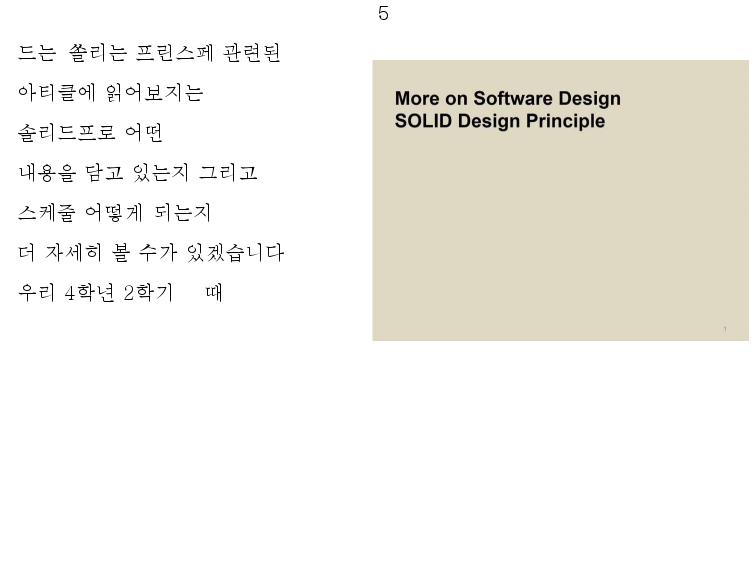
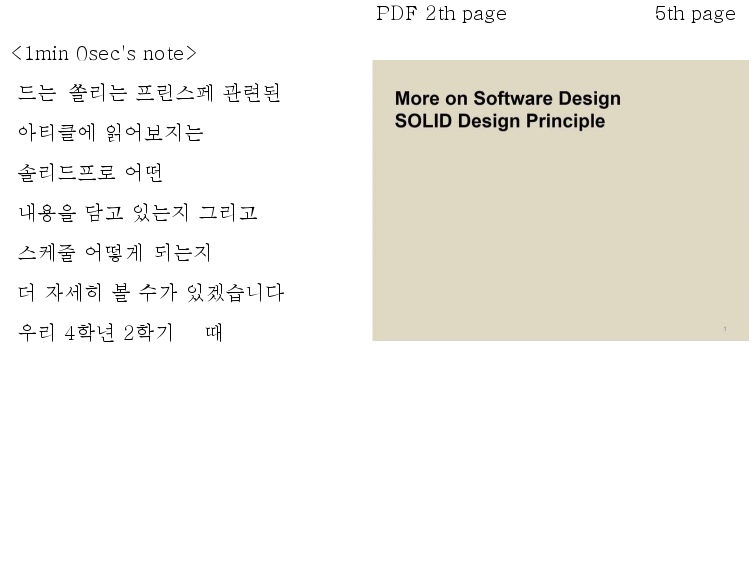
TTI
note별로 문단 시작에 표시

diff --git a/TextToImage/src/test/TextToImg.java b/TextToImage/src/test/TextToImg.java
@@ -21,7 +21,7 @@ public class TextToImg {
 	private ArrayList<Integer> changedP;
 	private int width;
 	private int height;
-	
+	private int pdfPages = 1;
 	private int outputCount = 1;
 	private int fontSize = 20;
 	private Font font;
@@ -31,6 +31,7 @@ public class TextToImg {
 	private Graphics2D graphics;
 	private BufferedImage bImg;
 
+	private String headLine = "";
 	
 	public TextToImg(ArrayList<String> sttString, ArrayList<Note> notes, ArrayList<Integer> changedPosition, int width, int height) throws Exception {
 		this.string = sttString;
@@ -53,7 +54,7 @@ public class TextToImg {
 		int cPosIndex = 0;
 		int widthMargin = width;
 		int heightMargin = 0;
-		
+
 		boolean notePrinted = false;
 		
 		Note note = notes.get(noteIndex++);
@@ -65,22 +66,36 @@ public class TextToImg {
 			
 			if (changedP.get(cPosIndex) == i) {
 				if (cPosIndex < changedP.size() - 1 ) cPosIndex += 1;
+				pdfPages += 1;
 				imageWrite();
 				initGraphic();
 				lineStart = fontSize * 3;
 				wordStart = 10;
 				widthMargin = width;
 				heightMargin = 0;
+				
+				
 				//System.out.println("페이지 넘김");
 			}
 			
 			// ---------------------- 노트 출력 --------------------------------
 			// note의 startIndex과 string의 index가 같다면 같은 초이므로 노트의 이미지를 그릴 준비.
 			if (note.startIndex == i ) {
+				wordStart = 10;
+				if (lineStart + fontSize * 6 > height ) {	// 하단 여백이 모자랄 경우 다음 장으로 넘기기
+					imageWrite();
+					initGraphic();
+					lineStart = fontSize * 3;
+				}
+				else lineStart += fontSize * 2;
 				notePrinted = true;
 				noteImg = note.note;
-				//System.out.println(noteIndex + "번째 그림과 " + i + "초의 텍스트 그리기");
+				headLine = "<"+secondToMinute(i)+"'s note>";
+				graphics.drawString(headLine, wordStart, lineStart);
+				wordStart += headLine.length() * (fontSize - 3);
 			}
+				
+				//System.out.println(noteIndex + "번째 그림과 " + i + "초의 텍스트 그리기");
 			
 			if (noteImg != null) {
 				//System.out.println("그림");
@@ -94,6 +109,7 @@ public class TextToImg {
 					wordStart = 10;
 					lineStart = fontSize * 3;
 				}
+				
 				graphics.drawImage(noteImg, width - noteImg.getWidth() - 5, lineStart, null);
 				widthMargin = width - noteImg.getWidth() - 5;
 				heightMargin = lineStart + noteImg.getHeight();
@@ -103,6 +119,7 @@ public class TextToImg {
 			
 			if (notePrinted) {
 				if (note.endIndex == i) {
+					
 					notePrinted = false;
 					lineStart = heightMargin + fontSize * 3;
 					wordStart = 10;
@@ -118,7 +135,7 @@ public class TextToImg {
 			// i초의 word이다. 
 			if (wordStart + word.length() * (fontSize - 4) + fontSize> widthMargin) {	// 가로의 남은 공간이 불충분하여 줄 띄움
 				wordStart = 10;
-				if (lineStart > height - fontSize * 3){	// 줄 띄울만한 여백이 존재하지 않아 다음 장으로 넘어감
+				if (lineStart > height - fontSize * 2){	// 줄 띄울만한 여백이 존재하지 않아 다음 장으로 넘어감
 					imageWrite();
 					initGraphic();
 					lineStart = fontSize;
@@ -128,7 +145,7 @@ public class TextToImg {
 			word = " " + spaceRemover(word);
 			//System.out.println("wordStart = " + wordStart + " | lineStart = " + lineStart);
 			//System.out.println(word);
-			graphics.drawString(word, wordStart, lineStart);
+			graphics.drawString(word,wordStart, lineStart);
 			wordStart += word.length() * (fontSize - 3);
 			
 		}
@@ -152,7 +169,9 @@ public class TextToImg {
 		graphics.setColor(Color.BLACK);
 		
 		// 위쪽 여백 PDf 인덱스
-		graphics.drawString(Integer.toString(outputCount),width/2, 20);
+		graphics.drawString(Integer.toString(outputCount)+"th page",width-100, 20);
+		graphics.drawString("PDF "+Integer.toString(pdfPages)+"th page",width/2, 20);
+
 	}
 	
 	private void imageWrite() throws IOException {
@@ -160,12 +179,16 @@ public class TextToImg {
 		System.out.println(outputCount++ + "th note converted");
 		fileName = Integer.toString(outputCount)+".png";
 		
-		
-		
 	}
 	private String spaceRemover(String s) {
 		if (s.charAt(0) != ' ') return s;
 		else  s = spaceRemover(s.substring(1));
 		return s;
+	}
+	
+	private String secondToMinute(int s) {
+		String m = Integer.toString(s / 60);
+		String sc = Integer.toString(s % 60);
+		return m+"min "+sc+"sec";
 	}
 }
